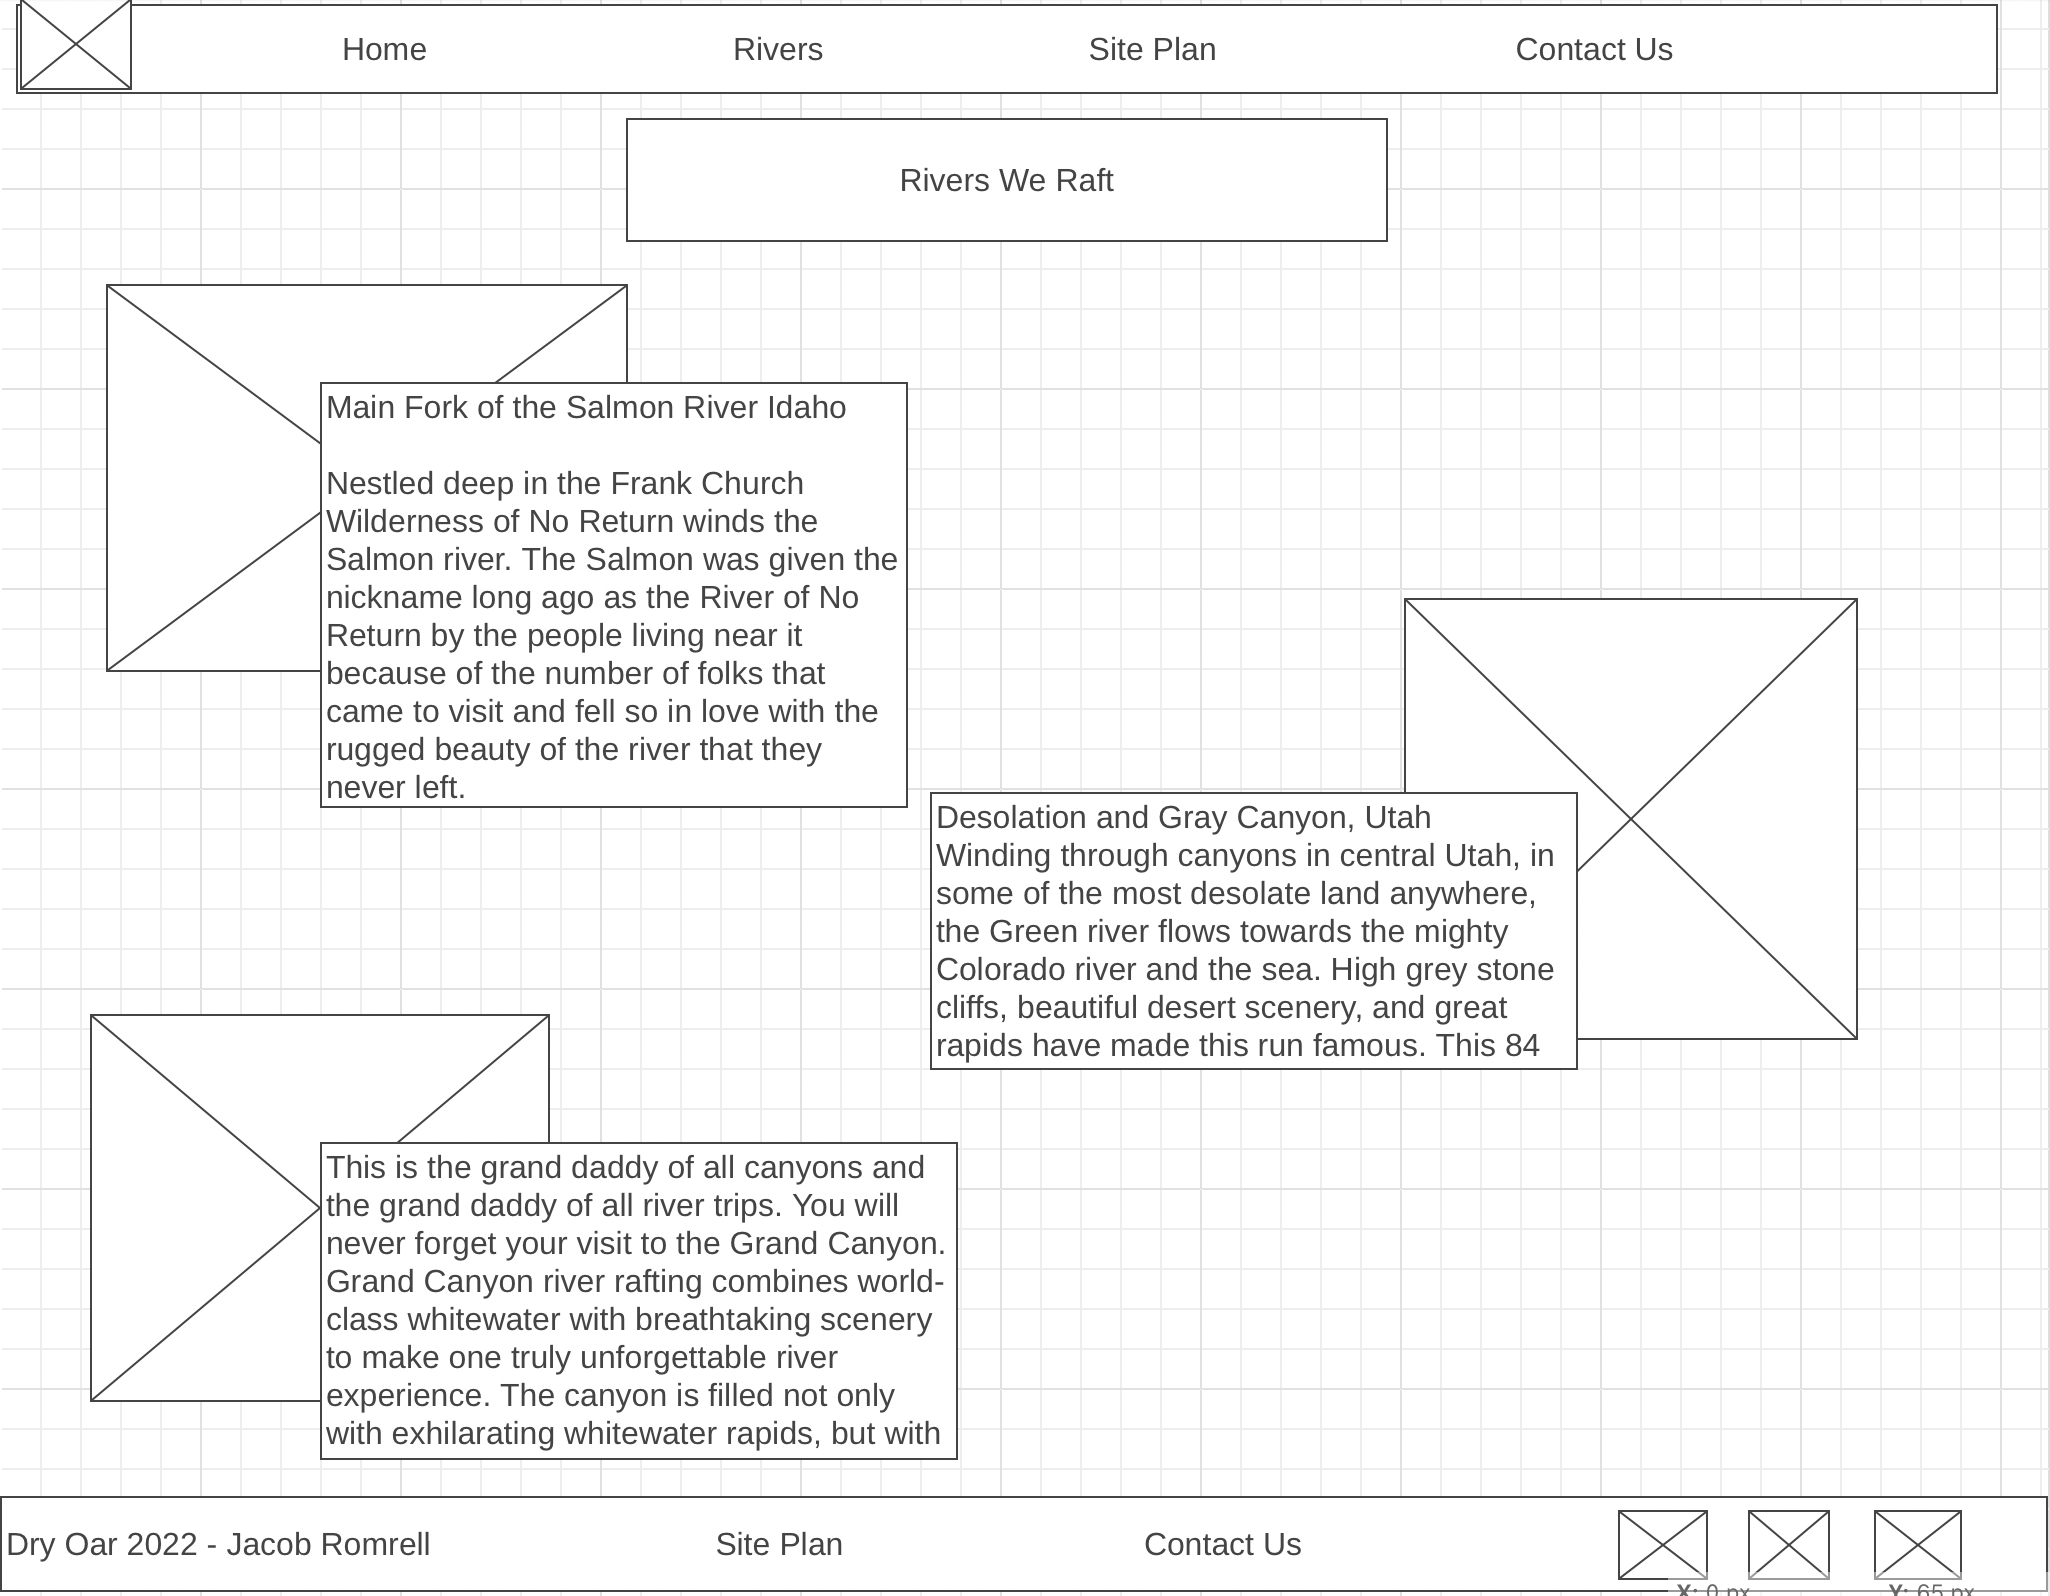
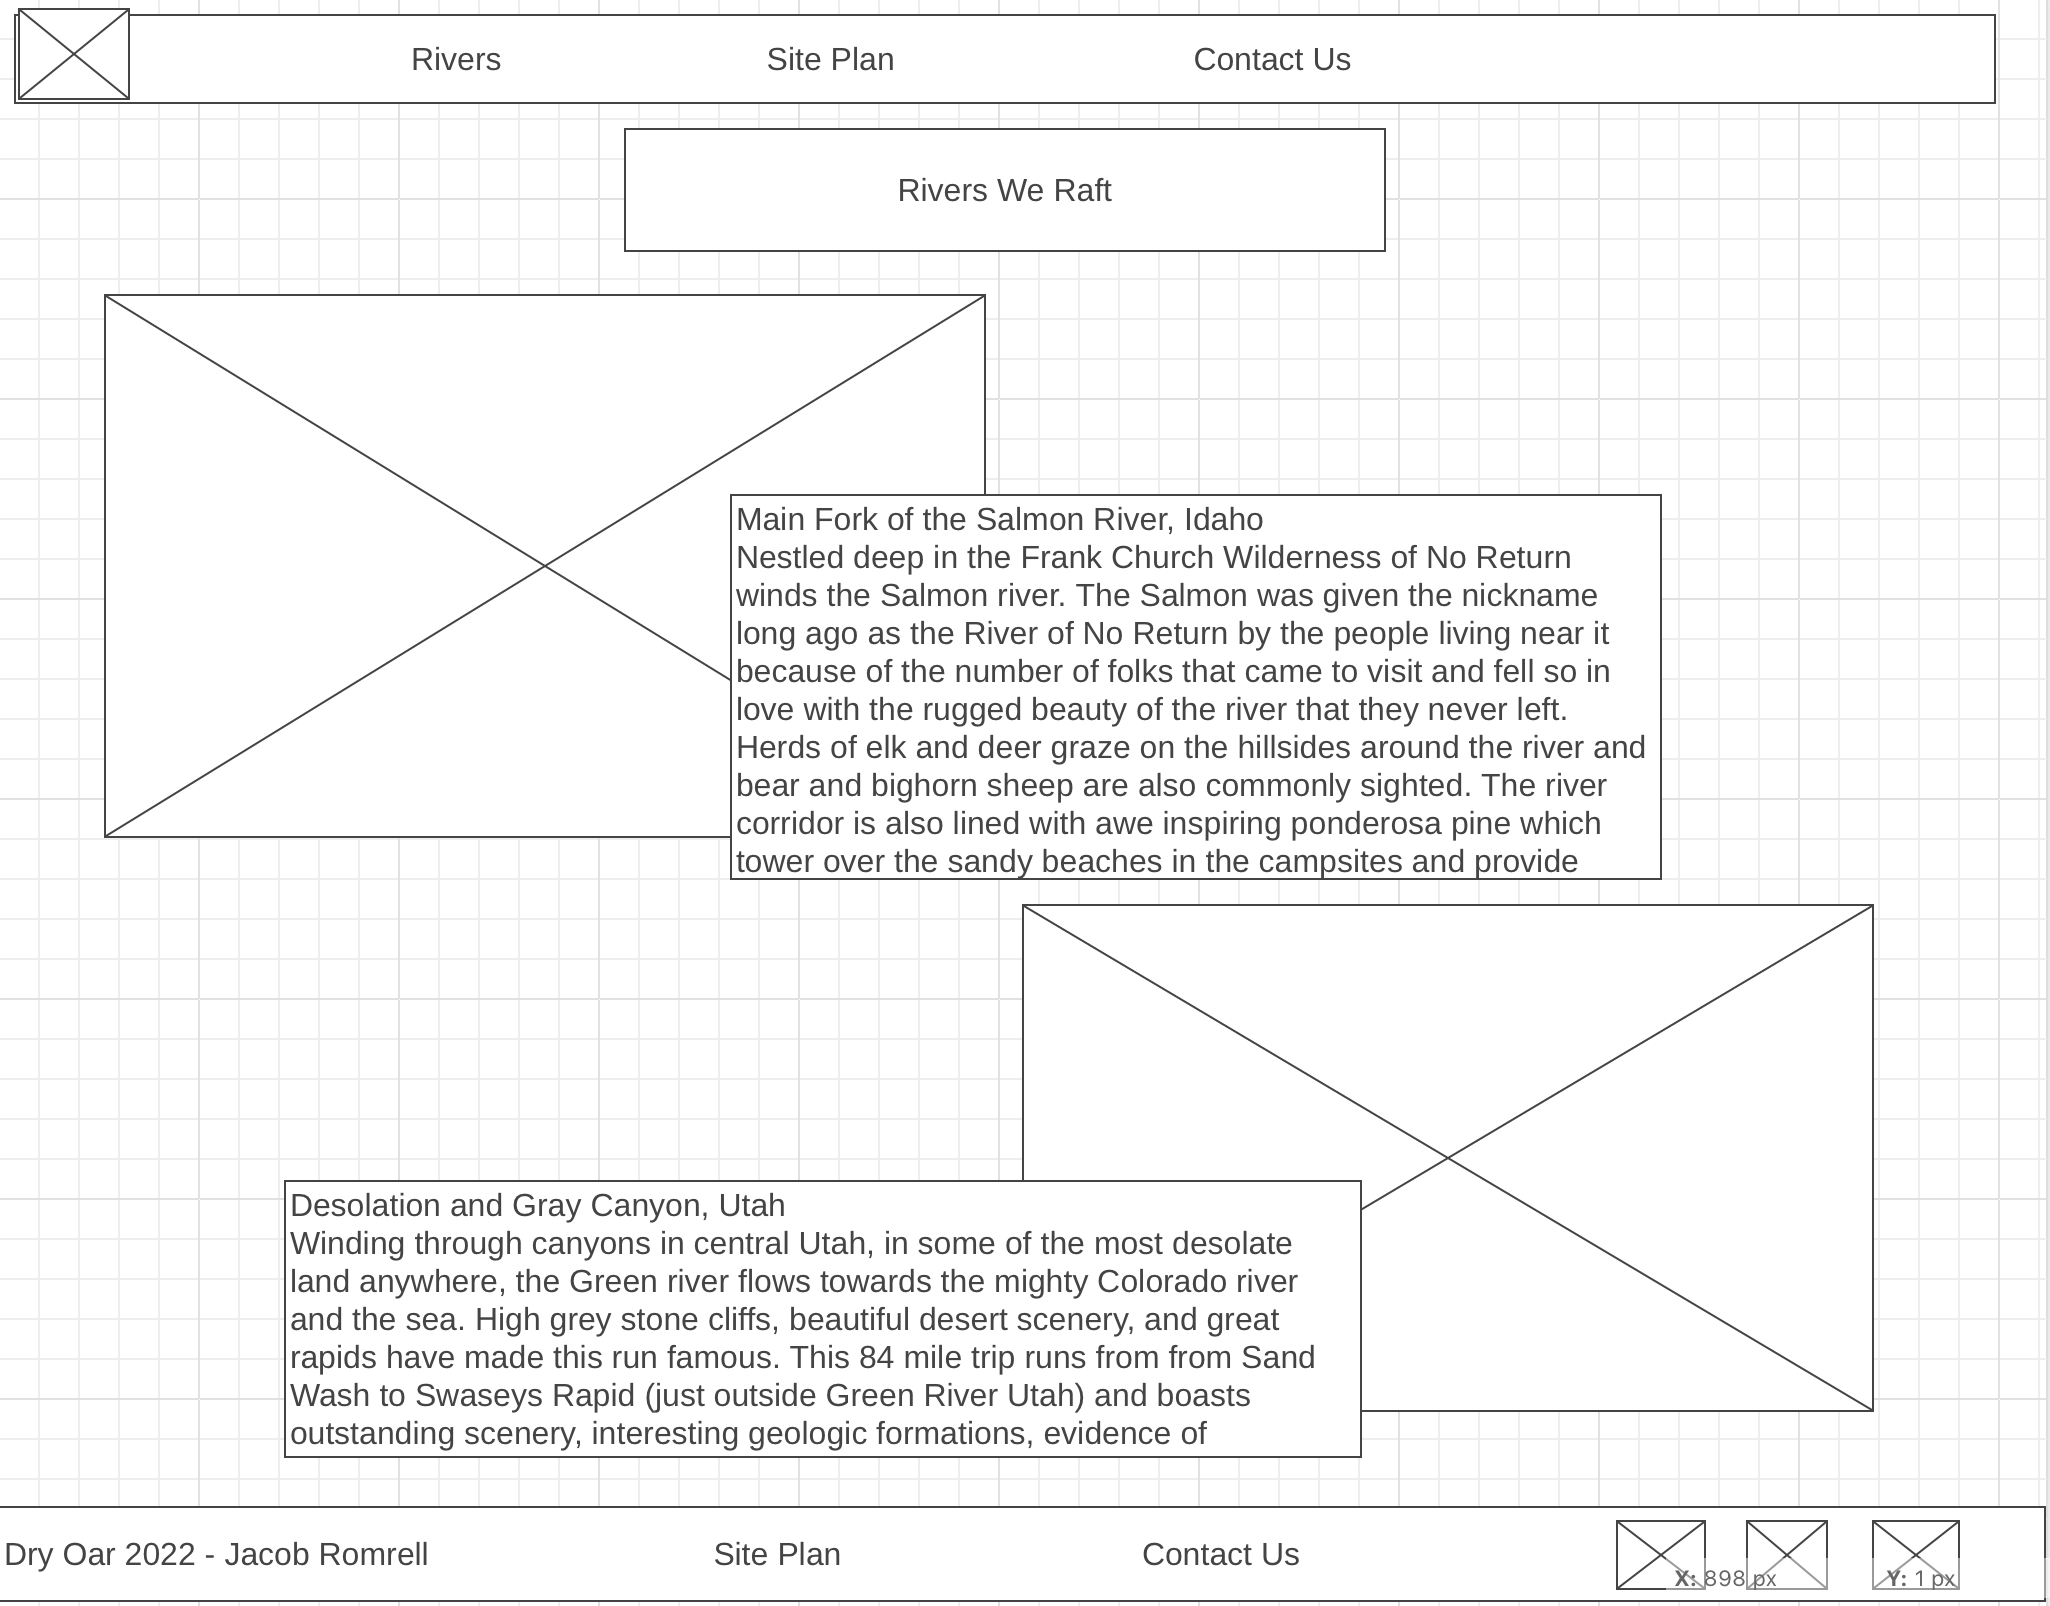
subpage HTML and CSS

diff --git a/wwr/rivers.html b/wwr/rivers.html
@@ -1,0 +1,74 @@
+<!DOCTYPE html>
+<html lang="en">
+<head>
+    <meta charset="UTF-8">
+    <meta http-equiv="X-UA-Compatible" content="IE=edge">
+    <meta name="viewport" content="width=device-width, initial-scale=1.0">
+    <link rel="stylesheet" href="styles/styles.css">
+    <title>Document</title>
+</head>
+<body>
+    <div id= "content">
+        <header>
+            <a id="logo_link" href="index.html">
+            <img class="logo" src="images/logo.png" alt="Dry Oar Logo">
+            </a>
+            <nav>
+                <a href="index.html">Home</a>
+                <a href="rivers.html">Rivers</a>
+                <a href="site-plan-rafting.html">Site Plan</a>
+                <a href="contactus.html">Contact Us</a>
+            </nav>
+        </header>
+    
+        <main class="rivers-grid">
+            <h1 class="rivers-title">Rivers We Run</h1>
+            <img class="river1" src="images/rivers1.jpg" alt="Clear Path">
+            <div class="salmon-river"> 
+                <h3>Main Fork of the Salmon River, Idaho</h3>
+            
+                <p>
+                    Main Fork of the Salmon River, Idaho
+
+Nestled deep in the Frank Church Wilderness of No Return winds the Salmon river. The Salmon was given the nickname long ago as the River of No Return by the people living near it because of the number of folks that came to visit and fell so in love with the rugged beauty of the river that they never left.
+
+Herds of elk and deer graze on the hillsides around the river and bear and bighorn sheep are also commonly sighted. The river corridor is also lined with awe inspiring ponderosa pine which tower over the sandy beaches in the campsites and provide shelter from sun or rain when needed.
+
+Let's not forget the rapids! They range from class I-IV. The Salmon is one of the longest undammed rivers in the United States. As a free flowing river the water is higher, faster, and colder in the early summer and lower, slower, and warmer in the late summer. There are good rapids all summer...but families with children who like to swim tend to appreciate the late summer's slower, warmer water more.
+                </div>
+                </p>
+
+                <img class="river2" src="images/rivers2.jpg" alt="2nd river">
+                <div class= "utah-river">
+
+                    <h3>Desolation and Gray Canyon, Utah</h3>
+                    <p>
+                     Winding through canyons in central Utah, in some of the most desolate land anywhere, the Green river flows towards the mighty Colorado river and the sea. High grey stone cliffs, beautiful desert scenery, and great rapids have made this run famous. This 84-mile trip runs from from Sand Wash to Swaseys Rapid (just outside Green River Utah) and boasts outstanding scenery, interesting geologic formations, evidence of prehistoric and historic human activity, and great whitewater opportunities.
+
+Desolation is rated a Class II/III and is usually done in 6 days
+
+Desolation Canyon has been recognized as a National Landmark.  This designation is based on the uniqueness and rich history that the canyon tells.
+                    </p>
+                </div>
+            </div>
+            
+        </main>
+        <footer>
+            <p>Dry Oar &copy; 2022 - Jacob Romrell</p>
+            <p><a href="site-plan-rafting.html">Site Plan</a></p>
+            <p><a href="contactus.html">Contact Us</a></p>
+            <div class="social">
+            <a href="https://facebook.com">
+                <img src="images/facebook.png" alt="fb icon">
+            </a>
+            <a href="https://twitter.com">
+                <img src="images/twitter.png" alt="twitter icon">
+            </a>
+            <a href="https://instagram.com">
+                <img src="images/instagram.png" alt="instagram icon">
+            </a>
+        </div>
+        </footer>
+    </div>
+</body>
+</html>

diff --git a/wwr/styles/styles.css b/wwr/styles/styles.css
@@ -181,6 +181,49 @@ h2 {
     grid-row: 5/8;
 }
 
+.rivers-title {
+    font-family:  "Rock Salt", 'Arial Narrow Bold', sans-serif;
+    grid-column: 3/7;
+    text-align: center;
+    color: #FFB703;
+    
+}
+
+.rivers-grid {
+    display: grid;
+    grid-template-columns: 1fr 1fr 3fr 1fr 1fr 3fr 1fr 1fr;
+    justify-items: center;
+}
+.salmon-river, .utah-river {
+    background-color: #023047;
+    color:#FFB703;
+    padding: 20px
+    
+}
+
+.salmon-river{
+    grid-column: 4/7;
+    grid-row: 4/5;
+}
+
+.river1 {
+    grid-column: 2/5;
+    grid-row: 2/5;
+    width: 100%;
+    padding: 50px;
+}
+
+.utah-river {
+    grid-column: 3/6;
+    grid-row: 7/9;
+}
+.river2 {
+    grid-column: 5/8;
+    grid-row: 6/9;
+    width: 100%;
+    padding: 50px;
+}
+
 @media screen and (max-width: 900px) {
     #hero, .home-grid {
         display: block;

diff --git a/wwr/index.html b/wwr/index.html
@@ -15,7 +15,7 @@
             </a>
             <nav>
                 <a href="index.html">Home</a>
-                <a href="#">Page 2</a>
+                <a href="rivers.html">Rivers</a>
                 <a href="site-plan-rafting.html">Site Plan</a>
                 <a href="contactus.html">Contact Us</a>
             </nav>
